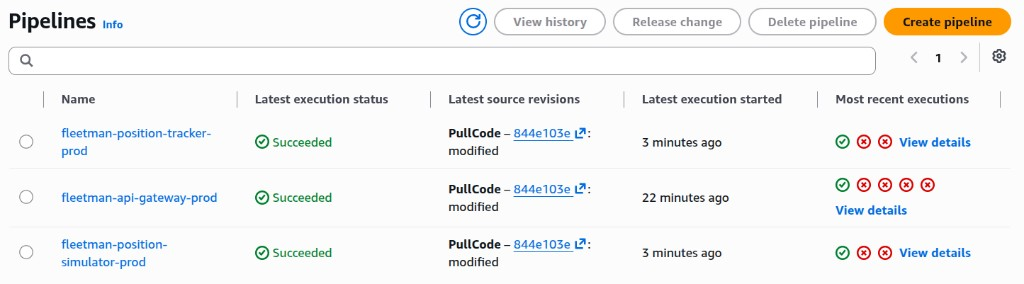
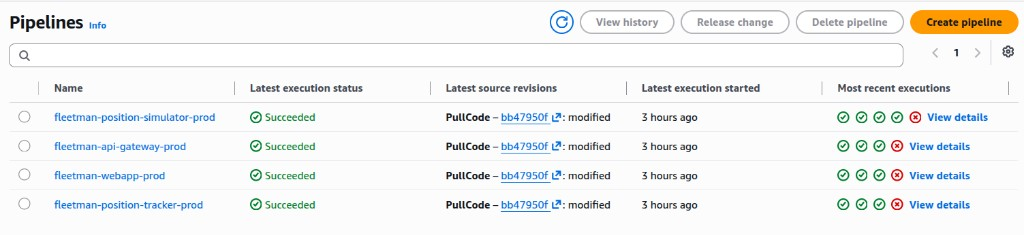
docs(cicd): document the webapp pipeline and refresh the pipelines overview
- Swap the overview image for the current 4-pipeline view and reword intro (3 backend -> EKS, webapp -> S3/CloudFront)
- Scope the existing stages to "backend pipelines (Source -> Build -> EKSDeploy)"
- Add "The webapp pipeline (Source -> Build -> S3 -> Invalidate)" with its buildspec, the S3 deploy action, and the CloudFront invalidation command

diff --git a/README.md b/README.md
@@ -2268,21 +2268,15 @@ This is separate from **EKS control-plane logging** (`api`, `audit`, `authentica
 
 # CI/CD with CodePipeline
 
-The three backend services (API Gateway, Position Tracker, Position Simulator) run on the EKS
-cluster, and each one has its own **AWS CodePipeline** that takes a code change all the way to
-the cluster — **build the image, push it to ECR, and deploy it with Helm** — with no manual
-steps. Without this you'd have to log in to ECR, `docker build`, `docker push`, then run
-`helm upgrade` by hand for every change; the pipeline does all of that consistently and
-records every run.
+Every service has its own **AWS CodePipeline** that takes a code change all the way to production with no manual steps — there are **four pipelines, one per service**. The three backend services (API Gateway, Position Tracker, Position Simulator) build a Docker image and deploy it to **EKS**; the **webapp** builds a static bundle and ships it to **S3 + CloudFront**. A change to one service only rebuilds and redeploys that service.
 
-There is **one pipeline per service**, so a change to one service only rebuilds and redeploys
-that service:
+Without this you'd be logging in to ECR and running `docker build` / `docker push` / `helm upgrade` by hand for the backends (and `npm run build` + `aws s3 sync` + a CloudFront invalidation for the webapp) on every change; the pipelines do all of it consistently and record every run.
 
-![The three CodePipeline pipelines — one per service — all succeeded](docs/images/codepipeline-pipelines.png)
+![The four CodePipeline pipelines — one per service — all succeeded](docs/images/codepipeline-pipelines.png)
 
-## The stages
+## The backend pipelines (Source → Build → EKSDeploy)
 
-Each service's pipeline has three stages: **Source → Build → EKSDeploy**.
+Each **backend** service's pipeline has three stages: **Source → Build → EKSDeploy**.
 
 ![A single pipeline showing the Source, Build and EKSDeploy stages](docs/images/codepipeline-stages.png)
 
@@ -2359,6 +2353,60 @@ The environment variables these specs use (`ECR_REPOSITORY_URI`, `ECR_LOGIN`, `R
 `AWS_REGION`, `EKS_CLUSTER_NAME`, `K8S_NAMESPACE`, `HELM_RELEASE_NAME`, `HELM_CHART_PATH`,
 `HELM_VALUES_FILE`) are injected by the CodeBuild projects, so the same specs work for every
 service.
+
+## The webapp pipeline (Source → Build → S3 → Invalidate)
+
+The webapp isn't deployed to EKS, so its pipeline is different — **four stages** that end at S3 and CloudFront instead of the cluster:
+
+![The webapp pipeline — Source, Build, DeployToS3 and InvalidateCloudFront, all succeeded](docs/images/codepipeline-webapp-stages.png)
+
+**1. Source** — the same GitHub connection pulls the monorepo into `source_output`.
+
+**2. Build** (CodeBuild, runs `k8s-fleetman-webapp-angular/buildspec.yml`) — installs **Node 10** (Angular 6 needs it) via nvm, runs `npm ci`, **bakes the API URL into the build** (writes `environment.prod.ts` so the SPA knows where the API Gateway is), then `npm run build`. The compiled static site in `dist/` becomes the `build_output` artifact:
+
+```yaml
+version: 0.2
+phases:
+  install:
+    commands:
+      - curl -fsSL -o- https://raw.githubusercontent.com/nvm-sh/nvm/v0.39.7/install.sh | bash
+      - export NVM_DIR="$HOME/.nvm" && . "$NVM_DIR/nvm.sh" && nvm install 10 && nvm use 10 && cd "$CODEBUILD_SRC_DIR/k8s-fleetman-webapp-angular" && npm ci
+  build:
+    commands:
+      # bake the API endpoint into the prod environment, then build
+      - export NVM_DIR="$HOME/.nvm" && . "$NVM_DIR/nvm.sh" && nvm use 10 && cd "$CODEBUILD_SRC_DIR/k8s-fleetman-webapp-angular" && echo "export const environment = { production: true, apiUrl: '$API_URL' };" > src/environments/environment.prod.ts && npm run build
+artifacts:
+  files:
+    - "**/*"
+  base-directory: k8s-fleetman-webapp-angular/dist   # the built site becomes build_output
+  discard-paths: no
+```
+
+**3. DeployToS3** — a built-in CodePipeline **S3 deploy action** (not CodeBuild). With `Extract = true` it unzips `build_output` straight into the webapp bucket, so the site's files land at the bucket root:
+
+```hcl
+action {
+  name     = "DeployToS3"
+  category = "Deploy"
+  owner    = "AWS"
+  provider = "S3"
+  input_artifacts = ["build_output"]
+  configuration = {
+    BucketName = "fleetman-webapp-prod"
+    Extract    = "true"
+  }
+}
+```
+
+**4. InvalidateCloudFront** — a small CodeBuild action that clears the CDN cache so viewers get the new build immediately instead of waiting for the TTL. Its inline buildspec is essentially one line:
+
+```yaml
+build:
+  commands:
+    - aws cloudfront create-invalidation --distribution-id $DISTRIBUTION_ID --paths '/*'
+```
+
+In Terraform, the last two stages are toggled on only for the webapp (`deploy_on_eks = false`), and the invalidation IAM permission is **scoped to that one distribution's ARN**, not `*`.
 
 ## How the monorepo is handled
 